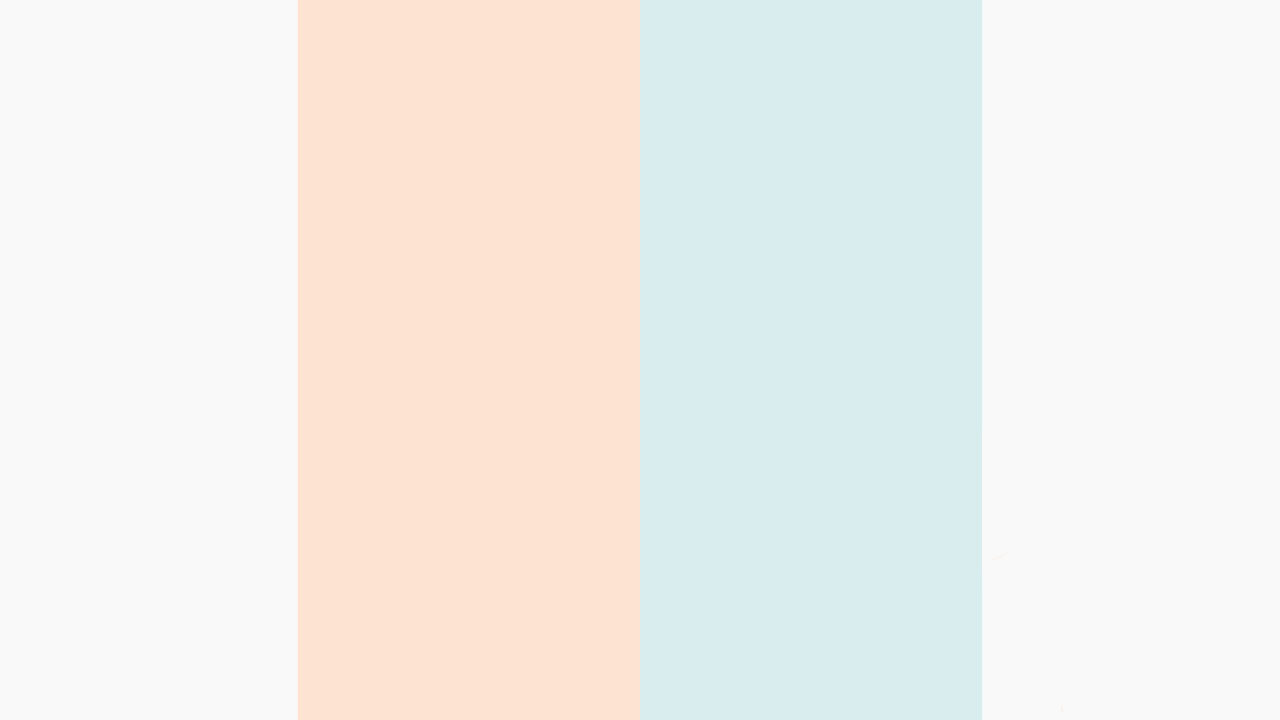
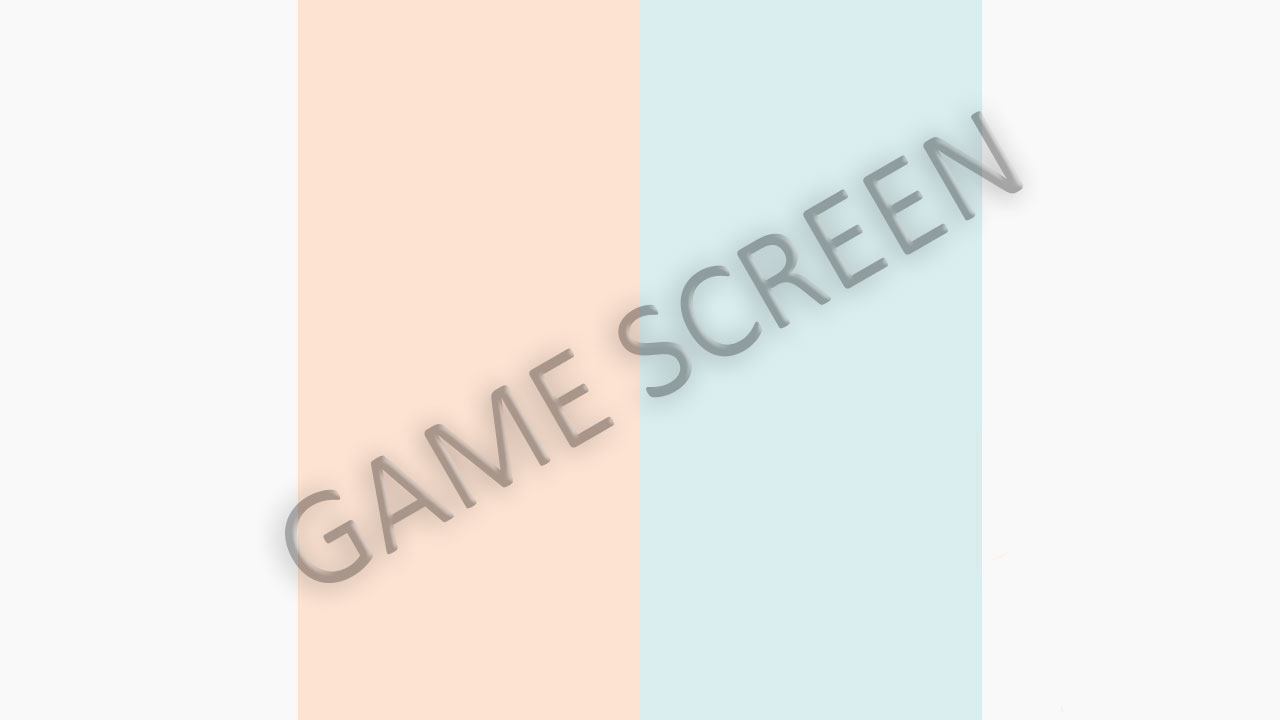
Assets changed.

Changed region(s): [[0.4688, 0.1528, 0.8125, 0.55], [0.2188, 0.4889, 0.5, 0.825]]

diff --git a/lpoo_2/core/src/com/bump/screens/MenuScreen.java b/lpoo_2/core/src/com/bump/screens/MenuScreen.java
@@ -19,17 +19,28 @@ public class MenuScreen extends ScreenAdapter
 	public MenuScreen(Bump game)
 	{
 		this.game = game;
-		guiCam = new OrthographicCamera(320, 480);
-		guiCam.position.set(320 / 2, 480 / 2 , 0);
-		playBounds = new Rectangle(0, 0, 64, 64);
+		guiCam = new OrthographicCamera(1280, 720);
+		guiCam.position.set(1280 / 2, 720 / 2, 0);
 		touchPoint = new Vector3();
+		
+		playBounds = new Rectangle(((1280 - 100) / 2) - (1280 / 2), ((720 - 30) / 2) - (720 / 2), 100, 30);
 	}
 
 	public void update()
 	{
 		if (Gdx.input.justTouched())
 		{
-			game.setScreen(new GameScreen(game));
+			guiCam.unproject(touchPoint.set(Gdx.input.getX(), Gdx.input.getY(), 0));
+			
+			System.out.print("Tocou aqui (" + touchPoint.x + ", " + touchPoint.y + ")");
+			
+			if (playBounds.contains(touchPoint.x, touchPoint.y))
+			{
+				System.out.print(" e acertou!\n");
+				game.setScreen(new GameScreen(game));
+			}
+			else
+				System.out.println();
 		}
 	}
 
@@ -41,6 +52,11 @@ public class MenuScreen extends ScreenAdapter
 		game.batcher.enableBlending();
 		game.batcher.begin();
 		game.batcher.draw(Assets.backgroundMenu, 0, 0);
+		game.batcher.end();
+		
+		game.batcher.disableBlending();
+		game.batcher.begin();
+		game.batcher.draw(Assets.buttonPlay, (1280 - 100) / 2, (720 - 30) / 2);
 		game.batcher.end();
 	}
 

diff --git a/lpoo_2/core/src/com/bump/assets/Assets.java b/lpoo_2/core/src/com/bump/assets/Assets.java
@@ -6,11 +6,13 @@ public class Assets
 {
 	public static Texture
 		backgroundMenu,
-		backgroundGame;
+		backgroundGame,
+		buttonPlay;
 
 	public static void load()
 	{
 		backgroundMenu = new Texture("menu/background.jpg");
 		backgroundGame = new Texture("game/background.jpg");
+		buttonPlay = new Texture("menu/play.jpg");
 	}
 }
